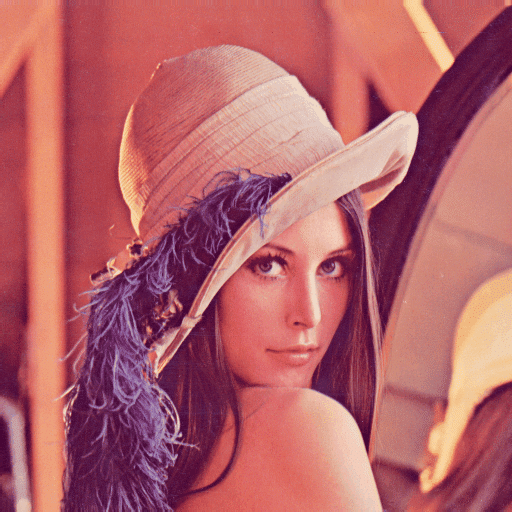
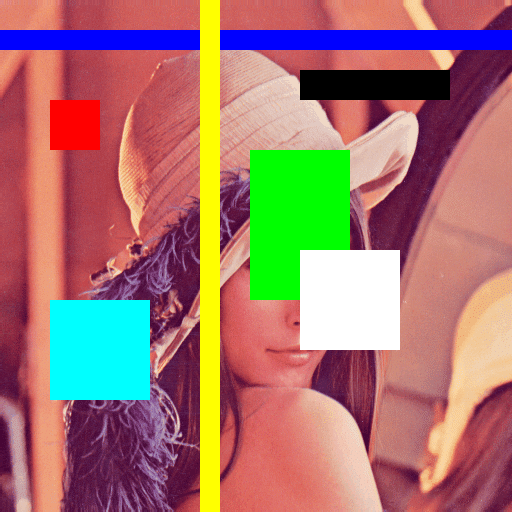
Fist codes

diff --git a/code.py b/code.py
@@ -1,15 +1,134 @@
-# Importação das bibliotecas
-import cv2
-# Leitura da imagem com a função imread()
-imagem = cv2.imread('img/lenna.png')
-print('Largura em pixels: ', end='')
-print(imagem.shape[1]) #largura da imagem
-print('Altura em pixels: ', end='')
-print(imagem.shape[0]) #altura da imagem
-print('Qtde de canais: ', end='')
-print(imagem.shape[2])
-# Mostra a imagem com a função imshow
-cv2.imshow("Nome da janela", imagem)
-cv2.waitKey(0) #espera pressionar qualquer tecla
-# Salvar a imagem no disco com função imwrite()
-cv2.imwrite("saida.jpg", imagem)
+#A cada salto é criado um quadrado amarelo de 5x5 pixels.
+# import cv2
+# imagem = cv2.imread('img/lenna.png')
+# for y in range(0, imagem.shape[0], 10): #percorre linhas
+#     for x in range(0, imagem.shape[1], 10): #percorre colunas
+#         imagem[y:y+5, x: x+5] = (0,255,255)
+# cv2.imshow("Imagem modificada", imagem)
+# cv2.waitKey(0)
+
+#########################################################
+
+#O código abaixo abre uma imagem e cria vários retângulos coloridos sobre ela.
+# import cv2
+# image = cv2.imread('img/lenna.png')
+# #Cria um retangulo azul por toda a largura da imagem
+# image[30:50, :] = (255, 0, 0)
+# #Cria um quadrado vermelho
+# image[100:150, 50:100] = (0, 0, 255)
+# #Cria um retangulo amarelo por toda a altura da imagem
+# image[:, 200:220] = (0, 255, 255)
+# #Cria um retangulo verde da linha 150 a 300 nas colunas 250 a
+# 350
+# image[150:300, 250:350] = (0, 255, 0)
+# #Cria um quadrado ciano da linha 150 a 300 nas colunas 250 a
+# 350
+# image[300:400, 50:150] = (255, 255, 0)
+# #Cria um quadrado branco
+# image[250:350, 300:400] = (255, 255, 255)
+# #Cria um quadrado preto
+# image[70:100, 300: 450] = (0, 0, 0)
+# cv2.imshow("Imagem alterada", image)
+# cv2.imwrite("img/lenna.png", image)
+# cv2.waitKey(0)
+
+#########################################################
+
+#Com a técnica de slicing é possível criar quadrados e retângulos, contudo, para outras
+# formas geométricas é possível utilizar as funções da OpenCV, isso é útil principalmente no
+# caso de desenho de círculos e textos sobre a imagem
+# import numpy as np
+# import cv2
+# imagem = cv2.imread('img/lenna.png')
+# vermelho = (0, 0, 255)
+# verde = (0, 255, 0)
+# azul = (255, 0, 0)
+# cv2.line(imagem, (0, 0), (100, 200), verde)
+# cv2.line(imagem, (300, 200), (150, 150), vermelho, 5)
+# cv2.rectangle(imagem, (20, 20), (120, 120), azul, 10)
+# cv2.rectangle(imagem, (200, 50), (225, 125), verde, -1)
+# (X, Y) = (imagem.shape[1] // 2, imagem.shape[0] // 2)
+# for raio in range(0, 175, 15):
+#     cv2.circle(imagem, (X, Y), raio, vermelho)
+# cv2.imshow("Desenhando sobre a imagem", imagem)
+# cv2.waitKey(0)
+
+#########################################################
+
+#Escreve na imagem
+# import numpy as np
+# import cv2
+# imagem = cv2.imread('img/lenna.png')
+# fonte = cv2.FONT_HERSHEY_SIMPLEX
+# cv2.putText(imagem,'OpenCV',(15,65), fonte,
+# 2,(255,255,255),2,cv2.LINE_AA)
+# cv2.imshow("Ponte", imagem)
+# cv2.waitKey(0)
+
+#########################################################
+
+#crop da imagem
+# import cv2
+# imagem = cv2.imread('img/lenna2.jpg')
+# recorte = imagem[100:200, 100:200]
+# cv2.imshow("Recorte da imagem", recorte)
+# cv2.imwrite("recorte.jpg", recorte) #salva no disco
+
+#########################################################
+
+#Redimensionamento / Resize
+# import numpy as np
+# import cv2
+# img = cv2.imread('img/lenna2.jpg')
+# cv2.imshow("Original", img)
+# largura = img.shape[1]
+# altura = img.shape[0]
+# proporcao = float(altura/largura)
+# largura_nova = 320 #em pixels
+# altura_nova = int(largura_nova*proporcao)
+# tamanho_novo = (largura_nova, altura_nova)
+# img_redimensionada = cv2.resize(img,
+# tamanho_novo, interpolation = cv2.INTER_AREA)
+# cv2.imshow('Resultado', img_redimensionada)
+# cv2.waitKey(0)
+
+#########################################################
+
+#Redimensionamento / Resize
+# import numpy as np
+# import imutils
+# import cv2
+# img = cv2.imread('img/lenna2.jpg')
+# cv2.imshow("Original", img)
+# img_redimensionada = img[::2,::2]
+# cv2.imshow("Imagem redimensionada", img_redimensionada)
+# cv2.waitKey(0)
+
+#########################################################
+
+#Espelhando uma imagem / Flip
+# import cv2
+# img = cv2.imread('img/lenna2.jpg')
+# cv2.imshow("Original", img)
+# flip_horizontal = img[::-1,:] #comando equivalente abaixo
+# #flip_horizontal = cv2.flip(img, 1)
+# cv2.imshow("Flip Horizontal", flip_horizontal)
+# flip_vertical = img[:,::-1] #comando equivalente abaixo
+# #flip_vertical = cv2.flip(img, 0)
+# cv2.imshow("Flip Vertical", flip_vertical)
+# flip_hv = img[::-1,::-1] #comando equivalente abaixo
+# #flip_hv = cv2.flip(img, -1)
+# cv2.imshow("Flip Horizontal e Vertical", flip_hv)
+# cv2.waitKey(0)
+
+#########################################################
+
+#Rotacionando uma imagem / Rotate
+# import cv2
+# img = cv2.imread('img/lenna2.jpg')
+# (alt, lar) = img.shape[:2] #captura altura e largura
+# centro = (lar // 2, alt // 2) #acha o centro
+# M = cv2.getRotationMatrix2D(centro, 30, 1.0) #30 graus
+# img_rotacionada = cv2.warpAffine(img, M, (lar, alt))
+# cv2.imshow("Imagem rotacionada em 45 graus", img_rotacionada)
+# cv2.waitKey(0)

diff --git a/leitura_escrita-_image.py b/leitura_escrita-_image.py
@@ -1,0 +1,15 @@
+# Importação das bibliotecas
+import cv2
+# Leitura da imagem com a função imread()
+imagem = cv2.imread('img/lenna.png')
+print('Largura em pixels: ', end='')
+print(imagem.shape[1]) #largura da imagem
+print('Altura em pixels: ', end='')
+print(imagem.shape[0]) #altura da imagem
+print('Qtde de canais: ', end='')
+print(imagem.shape[2])
+# Mostra a imagem com a função imshow
+cv2.imshow("Nome da janela", imagem)
+cv2.waitKey(0) #espera pressionar qualquer tecla
+# Salvar a imagem no disco com função imwrite()
+cv2.imwrite("saida.jpg", imagem)
